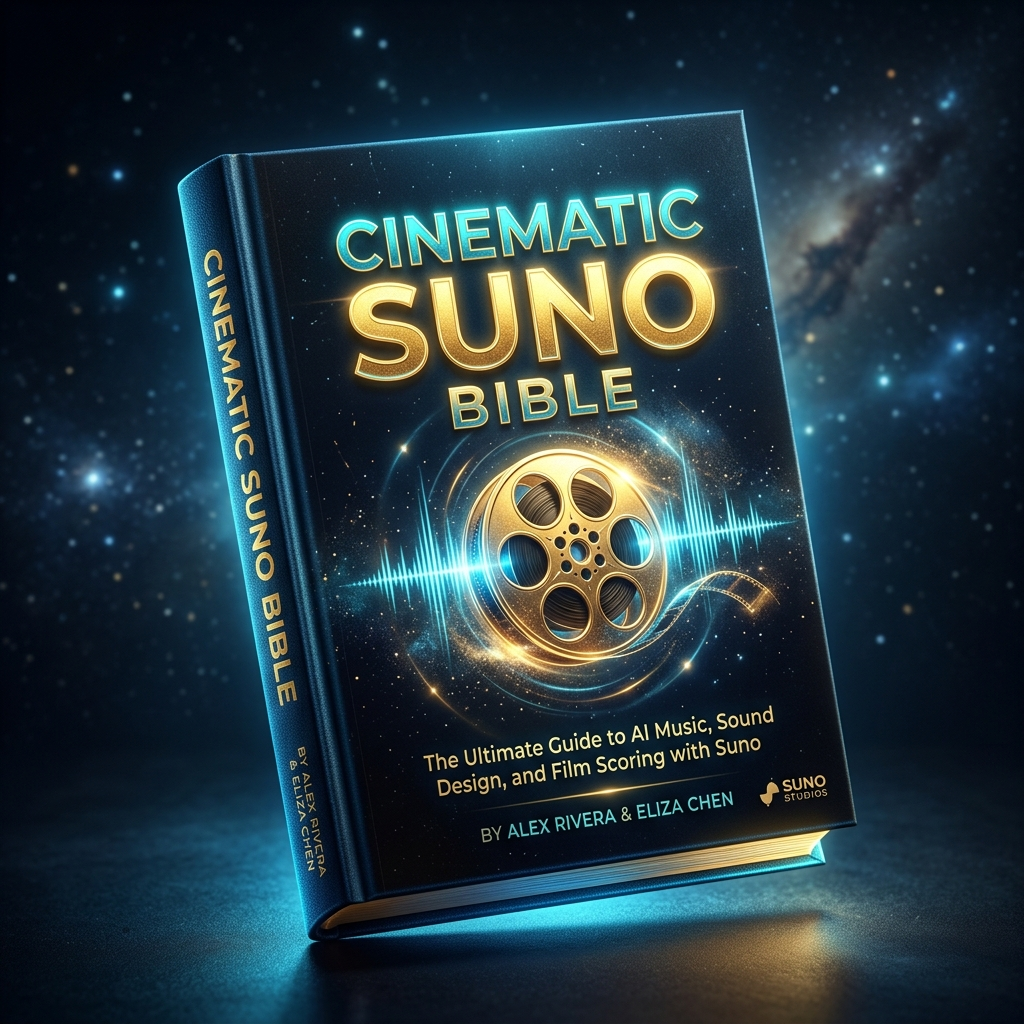
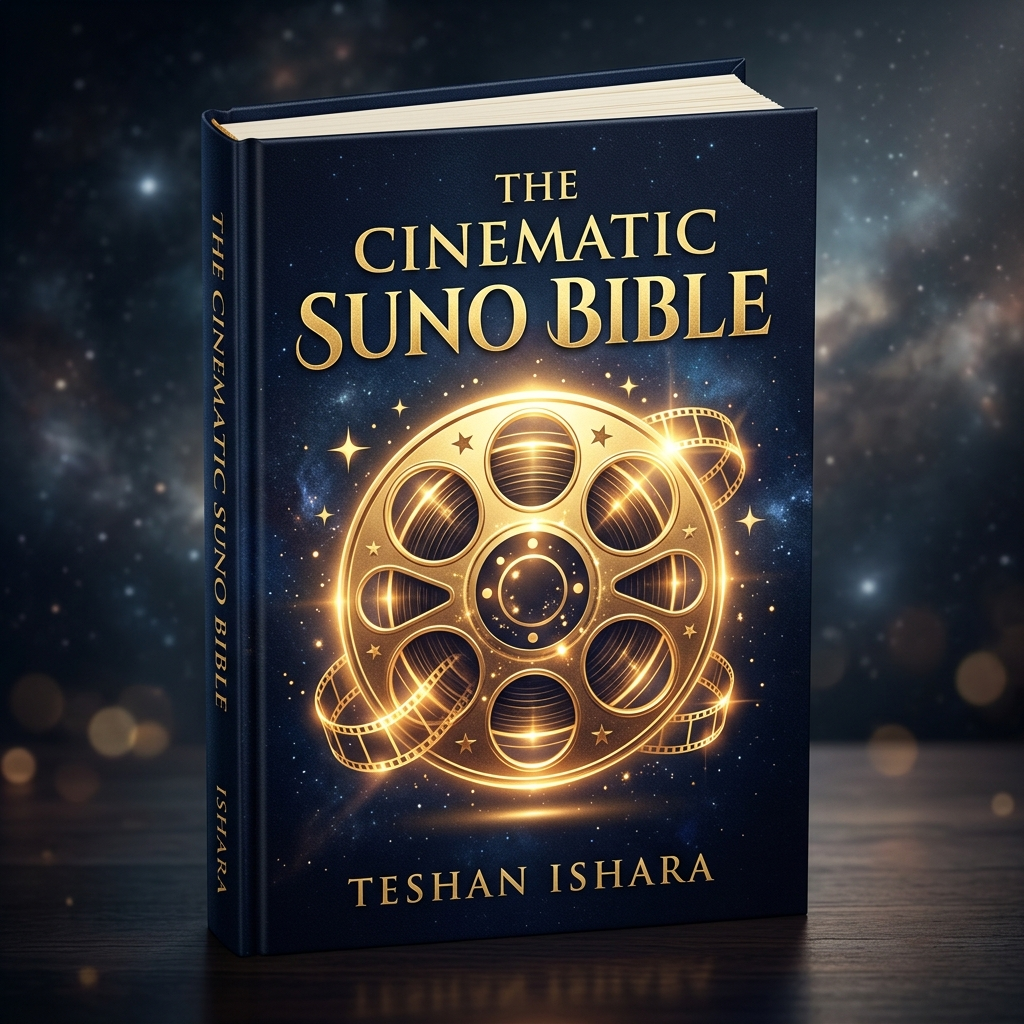
style: Fix publications layout grid, improve mobile overflow responsiveness, add clean author labels, and update cover mockups with correct names

diff --git a/index.html b/index.html
@@ -515,6 +515,7 @@
                     <div class="book-info-box">
                         <span class="book-tag tag-cybersecurity">AI & Safety</span>
                         <h3>Guardian of the Digital Self</h3>
+                        <span class="book-author">by Teshan Ishara</span>
                         <p class="book-subtitle">Protecting your children from the rise of AI deepfakes.</p>
                     </div>
                 </div>
@@ -532,6 +533,7 @@
                     <div class="book-info-box">
                         <span class="book-tag tag-audio">AI Music</span>
                         <h3>The Sonic Gold Playbook</h3>
+                        <span class="book-author">by Teshan Ishara</span>
                         <p class="book-subtitle">Build, engineer, and monetize your AI music brand.</p>
                     </div>
                 </div>
@@ -549,6 +551,7 @@
                     <div class="book-info-box">
                         <span class="book-tag tag-audio">Sonic Branding</span>
                         <h3>Suno AI for Sonic Branding</h3>
+                        <span class="book-author">by Teshan Ishara</span>
                         <p class="book-subtitle">Creator's guide to building custom intro themes.</p>
                     </div>
                 </div>
@@ -566,6 +569,7 @@
                     <div class="book-info-box">
                         <span class="book-tag tag-audio">Cinematic AI</span>
                         <h3>The Cinematic Suno Bible</h3>
+                        <span class="book-author">by Teshan Ishara</span>
                         <p class="book-subtitle">101 pro-grade prompts for film, YouTube, and scoring.</p>
                     </div>
                 </div>
@@ -583,6 +587,7 @@
                     <div class="book-info-box">
                         <span class="book-tag tag-business">HR Automation</span>
                         <h3>AI for HR and Recruitment</h3>
+                        <span class="book-author">by Teshan Ishara</span>
                         <p class="book-subtitle">The 2026 talent acquisition automation playbook.</p>
                     </div>
                 </div>
@@ -600,6 +605,7 @@
                     <div class="book-info-box">
                         <span class="book-tag tag-science">GIS & Oceans</span>
                         <h3>Advanced GIS for Oceanography</h3>
+                        <span class="book-author">by Teshan Ishara</span>
                         <p class="book-subtitle">A professional textbook for marine spatial analysis.</p>
                     </div>
                 </div>
@@ -617,6 +623,7 @@
                     <div class="book-info-box">
                         <span class="book-tag tag-audio">Prompt Bundle</span>
                         <h3>Suno AI Prompt Guide Bundle</h3>
+                        <span class="book-author">by Teshan Ishara</span>
                         <p class="book-subtitle">250+ music prompts for AI song generation.</p>
                     </div>
                 </div>
@@ -634,6 +641,7 @@
                     <div class="book-info-box">
                         <span class="book-tag tag-creative">Creative Prompts</span>
                         <h3>Midnight Thoughts & Lonely Vibes</h3>
+                        <span class="book-author">by Teshan Ishara</span>
                         <p class="book-subtitle">50 emotional Suno prompts for sad & romantic music.</p>
                     </div>
                 </div>
@@ -651,6 +659,7 @@
                     <div class="book-info-box">
                         <span class="book-tag tag-finance">Side Hustles</span>
                         <h3>250 Side Hustles for Wealth</h3>
+                        <span class="book-author">by Teshan Ishara</span>
                         <p class="book-subtitle">Proven wealth strategies and passive income streams.</p>
                     </div>
                 </div>
@@ -668,6 +677,7 @@
                     <div class="book-info-box">
                         <span class="book-tag tag-audio">Wellness Audio</span>
                         <h3>Suno for Meditation & Yoga</h3>
+                        <span class="book-author">by Teshan Ishara</span>
                         <p class="book-subtitle">200+ prompts for healing soundscapes and chakra frequencies.</p>
                     </div>
                 </div>
@@ -685,6 +695,7 @@
                     <div class="book-info-box">
                         <span class="book-tag tag-audio">Passive Income</span>
                         <h3>Lo-Fi & Chillwave Handbook</h3>
+                        <span class="book-author">by Teshan Ishara</span>
                         <p class="book-subtitle">Complete faceless YouTube passive income system.</p>
                     </div>
                 </div>

diff --git a/style.css b/style.css
@@ -2115,8 +2115,8 @@ img {
 
 .publications-grid {
     display: grid;
-    grid-template-columns: repeat(12, 1fr);
-    gap: 2rem;
+    grid-template-columns: repeat(3, 1fr);
+    gap: 2.5rem;
     margin-top: 3.5rem;
 }
 
@@ -2128,6 +2128,7 @@ img {
     transition: var(--transition-normal);
     position: relative;
     box-shadow: 0 10px 30px rgba(0, 0, 0, 0.2);
+    min-width: 0; /* Prevents grid layout overflow */
 }
 
 .publications-card:hover {
@@ -2138,13 +2139,14 @@ img {
 
 /* Blogger Card (Centerpiece) styling */
 .blog-card {
-    grid-column: span 12;
-    padding: 2.5rem;
+    grid-column: 1 / -1;
+    padding: 3rem 2.5rem;
     display: flex;
     flex-direction: column;
     justify-content: center;
     background: linear-gradient(135deg, rgba(6, 22, 53, 0.75) 0%, rgba(5, 19, 45, 0.45) 100%);
     position: relative;
+    min-width: 0;
 }
 
 .blog-glow-edge {
@@ -2161,6 +2163,8 @@ img {
     display: flex;
     gap: 2.5rem;
     align-items: center;
+    min-width: 0;
+    width: 100%;
 }
 
 .blog-icon-wrap {
@@ -2170,10 +2174,17 @@ img {
     flex-shrink: 0;
 }
 
+.blog-info {
+    min-width: 0;
+    flex-grow: 1;
+}
+
 .blog-info h3 {
     font-size: 1.8rem;
     margin-bottom: 0.25rem;
     color: var(--text-primary);
+    word-wrap: break-word;
+    overflow-wrap: break-word;
 }
 
 .blog-domain {
@@ -2183,6 +2194,7 @@ img {
     margin-bottom: 1rem;
     font-family: var(--font-heading);
     font-weight: 500;
+    word-break: break-all;
 }
 
 .blog-desc {
@@ -2190,6 +2202,8 @@ img {
     margin-bottom: 1.5rem;
     font-size: 1.05rem;
     max-width: 800px;
+    word-wrap: break-word;
+    overflow-wrap: break-word;
 }
 
 .blog-topics {
@@ -2215,10 +2229,11 @@ img {
 
 /* Book Cards styling */
 .book-card {
-    grid-column: span 3;
+    grid-column: auto;
     display: flex;
     flex-direction: column;
     height: 100%;
+    min-width: 0;
 }
 
 .book-cover-wrap {
@@ -2277,6 +2292,7 @@ img {
     display: flex;
     flex-direction: column;
     flex-grow: 1;
+    min-width: 0;
 }
 
 .book-tag {
@@ -2291,10 +2307,20 @@ img {
 
 .book-info-box h3 {
     font-size: 1.15rem;
-    margin-bottom: 0.5rem;
+    margin-bottom: 0.4rem;
     line-height: 1.3;
     font-family: var(--font-heading);
     color: var(--text-primary);
+    word-wrap: break-word;
+    overflow-wrap: break-word;
+}
+
+.book-author {
+    font-size: 0.8rem;
+    color: var(--text-muted);
+    font-weight: 500;
+    margin-bottom: 0.75rem;
+    display: block;
 }
 
 .book-subtitle {
@@ -2302,6 +2328,8 @@ img {
     color: var(--text-secondary);
     line-height: 1.4;
     margin-top: auto;
+    word-wrap: break-word;
+    overflow-wrap: break-word;
 }
 
 /* Specific Tag Colors */
@@ -2314,14 +2342,16 @@ img {
 
 /* Responsive adjustments for Publications */
 @media (max-width: 1200px) {
-    .book-card {
-        grid-column: span 4;
+    .publications-grid {
+        grid-template-columns: repeat(3, 1fr);
+        gap: 2rem;
     }
 }
 
 @media (max-width: 992px) {
-    .book-card {
-        grid-column: span 6;
+    .publications-grid {
+        grid-template-columns: repeat(2, 1fr);
+        gap: 2rem;
     }
     
     .blog-card-content {
@@ -2335,13 +2365,14 @@ img {
     }
 }
 
-@media (max-width: 576px) {
-    .book-card {
-        grid-column: span 12;
+@media (max-width: 768px) {
+    .publications-grid {
+        grid-template-columns: 1fr;
+        gap: 1.5rem;
     }
     
     .blog-card {
-        padding: 1.5rem;
+        padding: 2rem 1.5rem;
     }
     
     .blog-icon-wrap {
